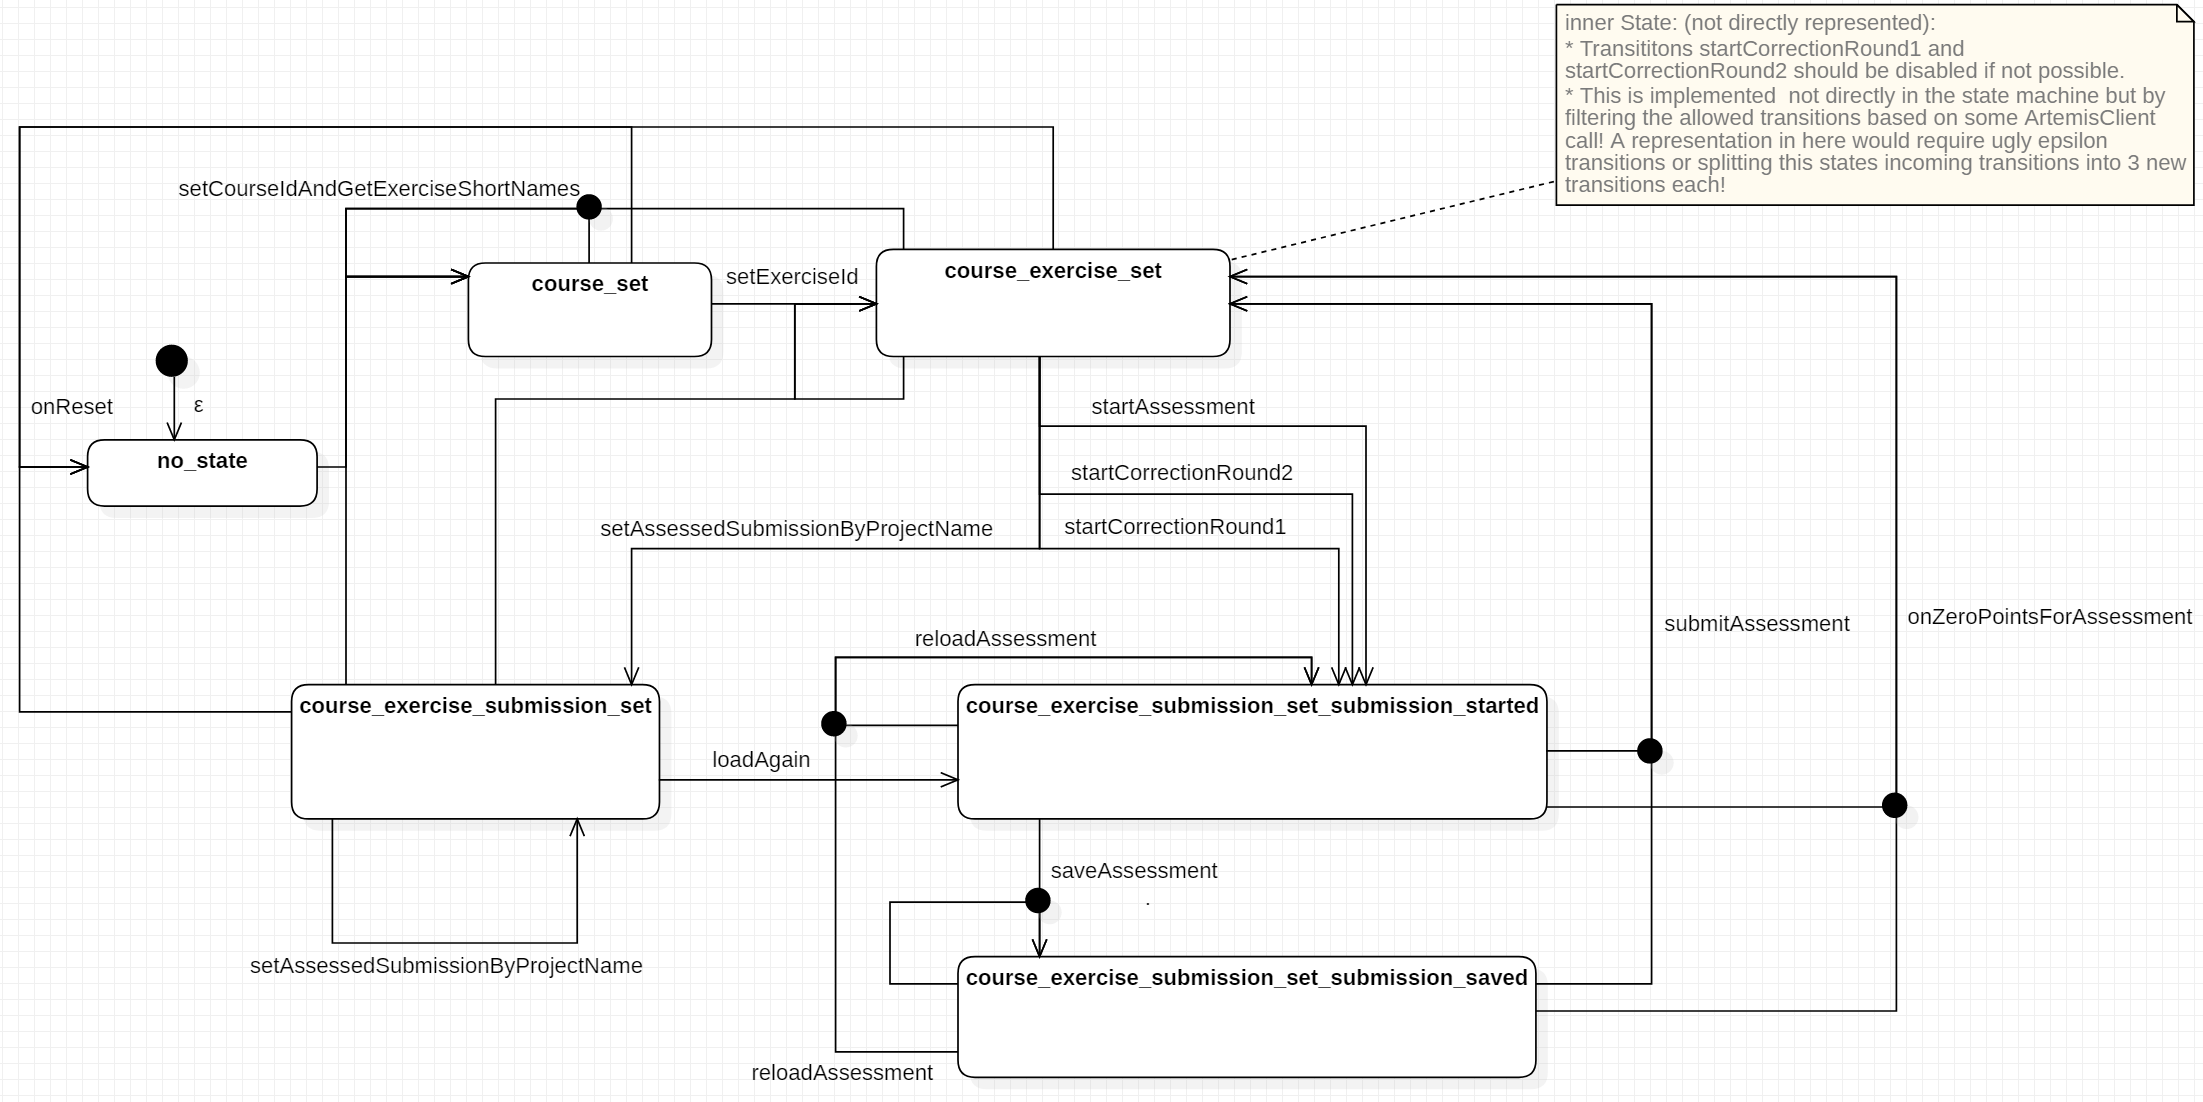
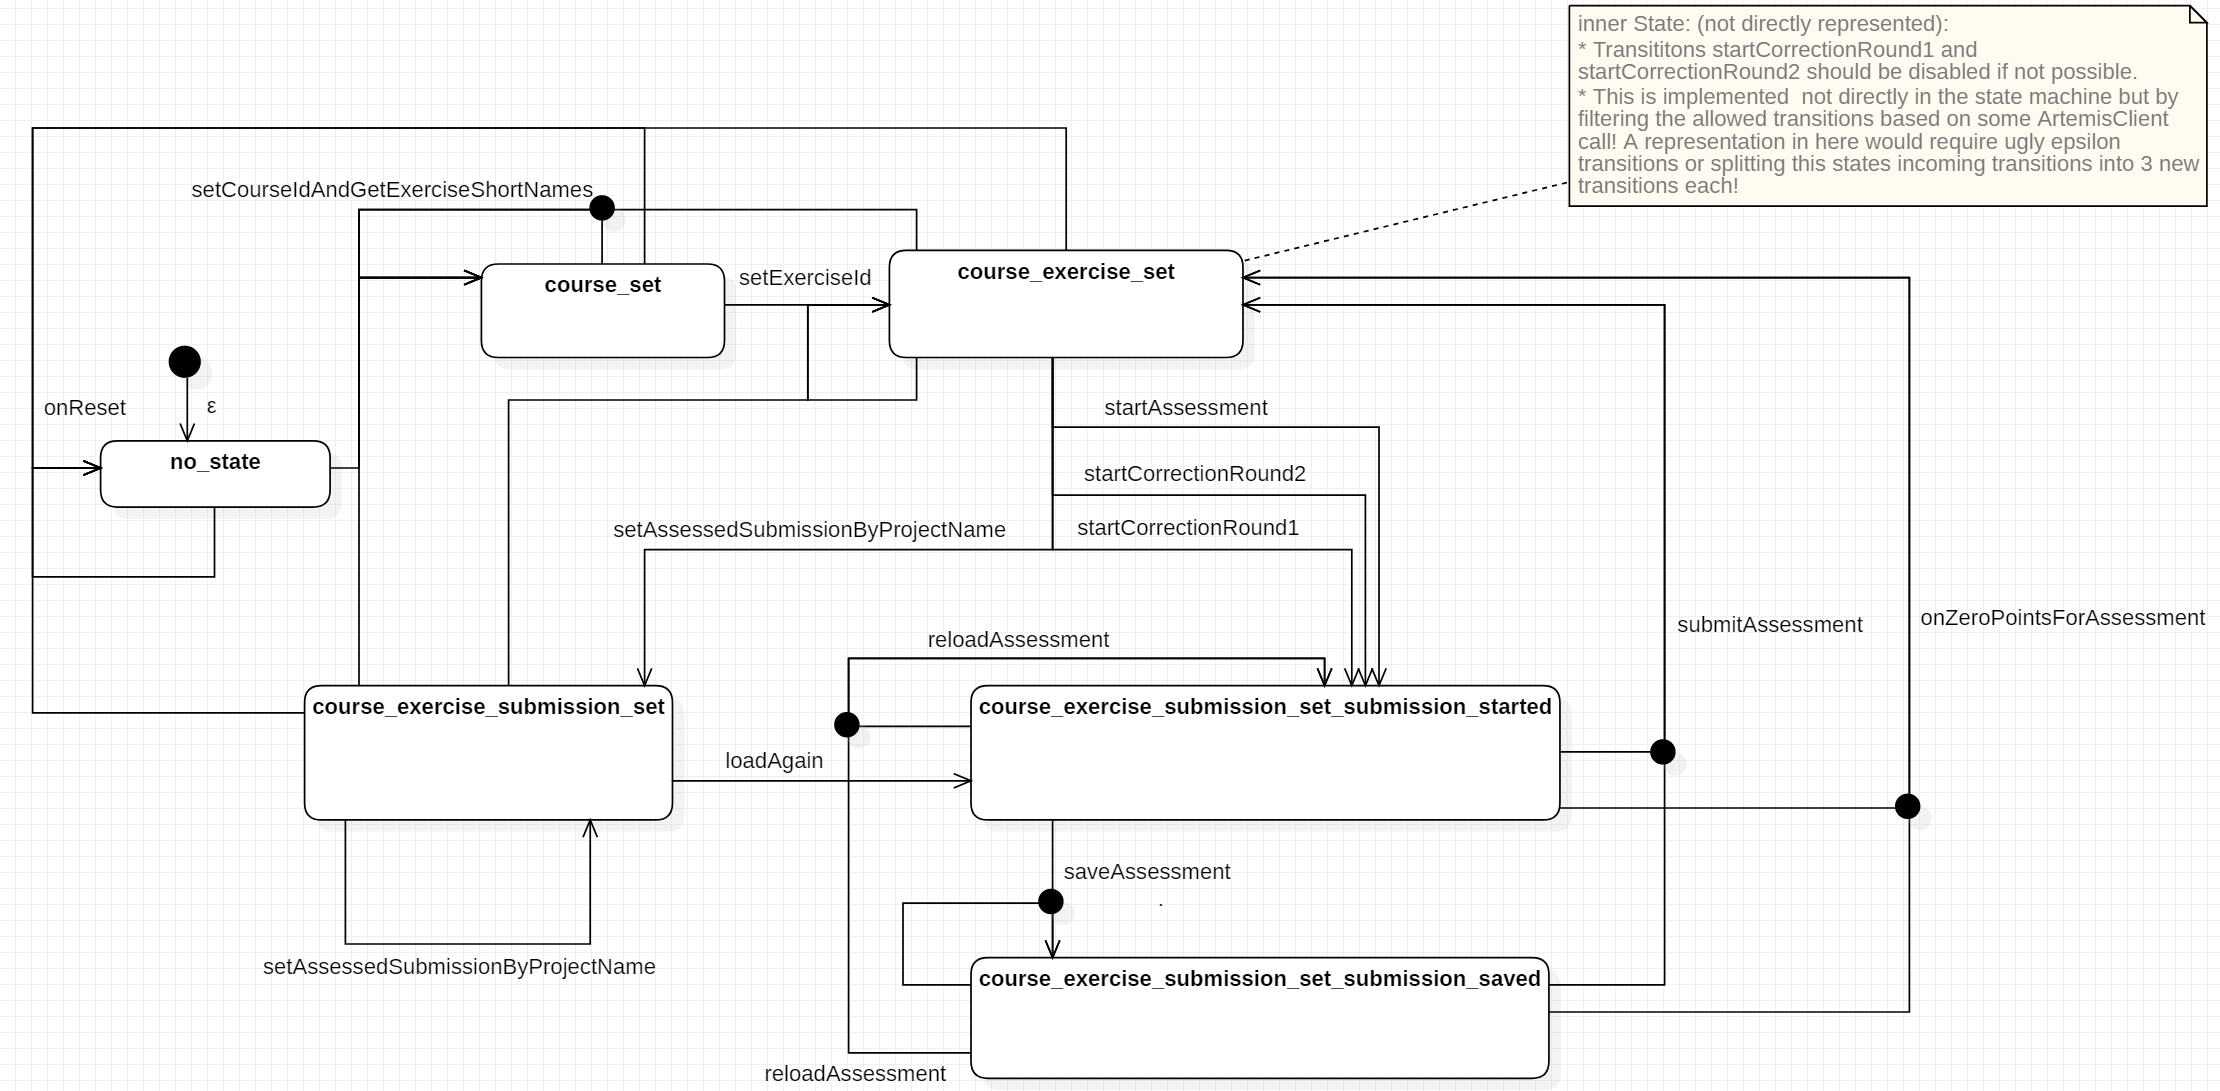
add self-transition ON_RESET to NO_STATE

diff --git a/bundles/edu.kit.kastel.sdq.eclipse.grading.core/src/edu/kit/kastel/sdq/eclipse/grading/core/BackendStateMachine.java b/bundles/edu.kit.kastel.sdq.eclipse.grading.core/src/edu/kit/kastel/sdq/eclipse/grading/core/BackendStateMachine.java
@@ -54,7 +54,9 @@ public class BackendStateMachine {
 	 */
 	private void setUpTransitions() {
 		this.transitions.put(State.ERROR_STATE, new HashSet<>(List.of()));
-		this.transitions.put(State.NO_STATE, new HashSet<>(List.of(Transition.SET_COURSE_ID_AND_GET_EXERCISE_SHORT_NAMES)));
+		this.transitions.put(State.NO_STATE, new HashSet<>(List.of(
+				Transition.SET_COURSE_ID_AND_GET_EXERCISE_SHORT_NAMES,
+				Transition.ON_RESET)));
 		this.transitions.put(State.COURSE_SET, new HashSet<>(List.of(
 				Transition.SET_EXERCISE_ID,
 				Transition.SET_COURSE_ID_AND_GET_EXERCISE_SHORT_NAMES,
